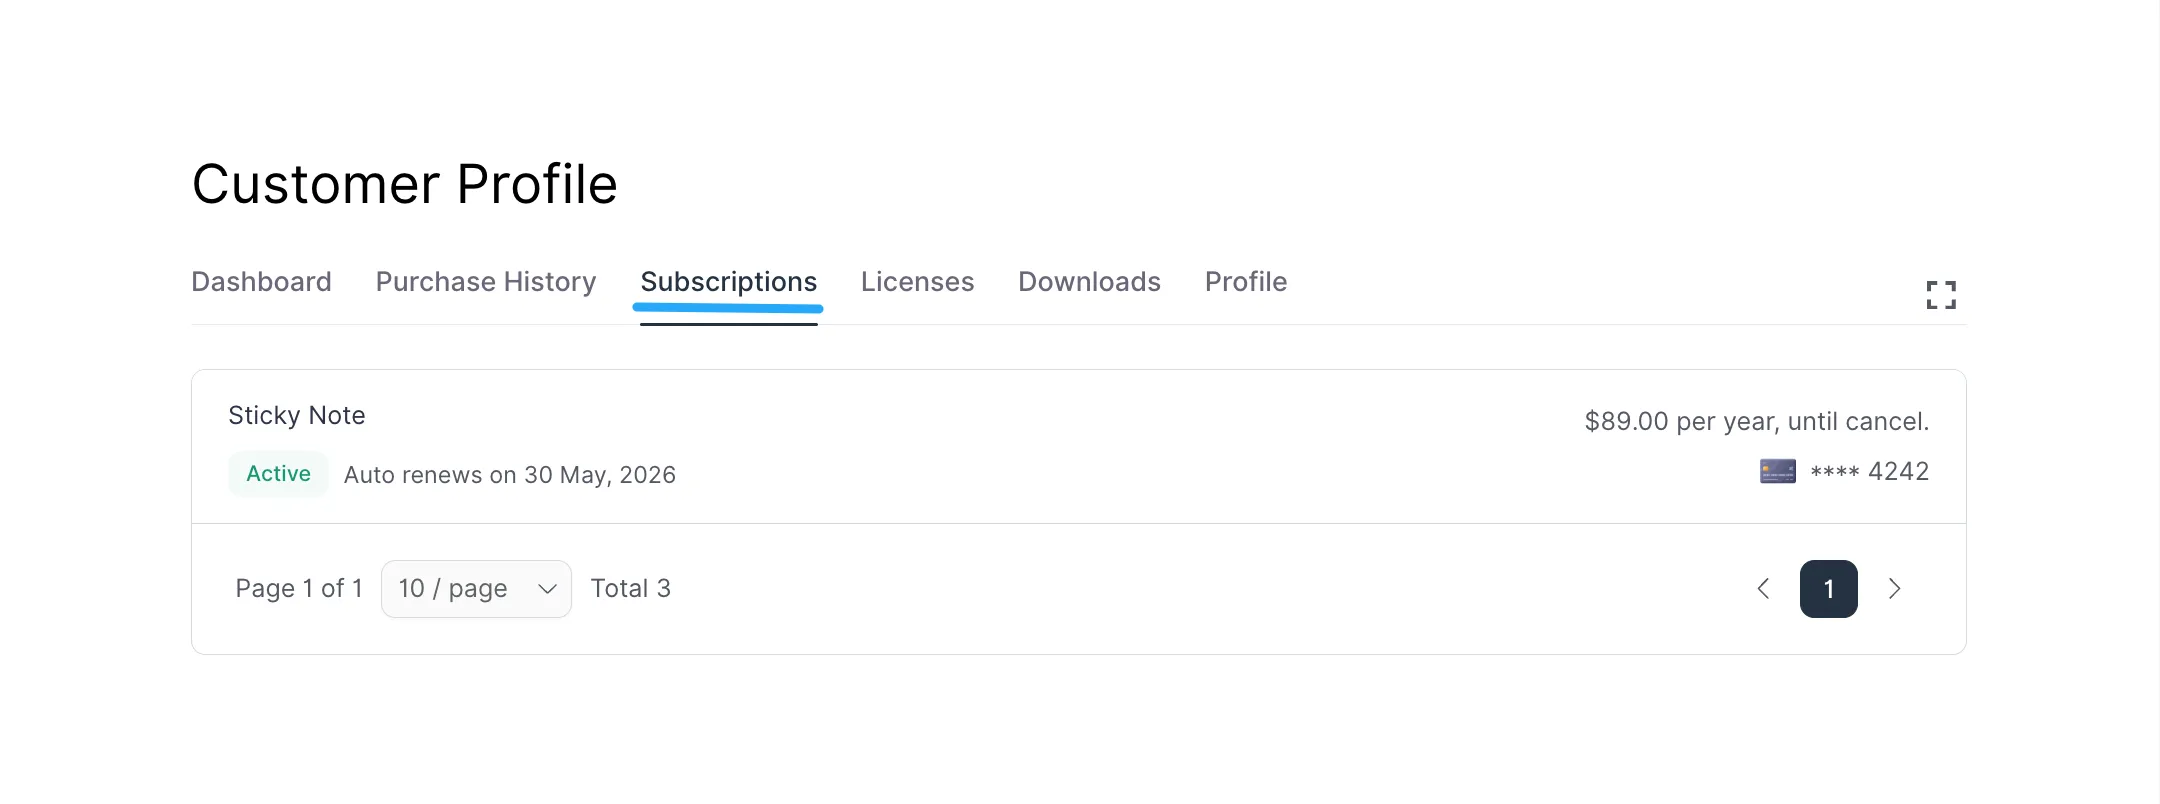
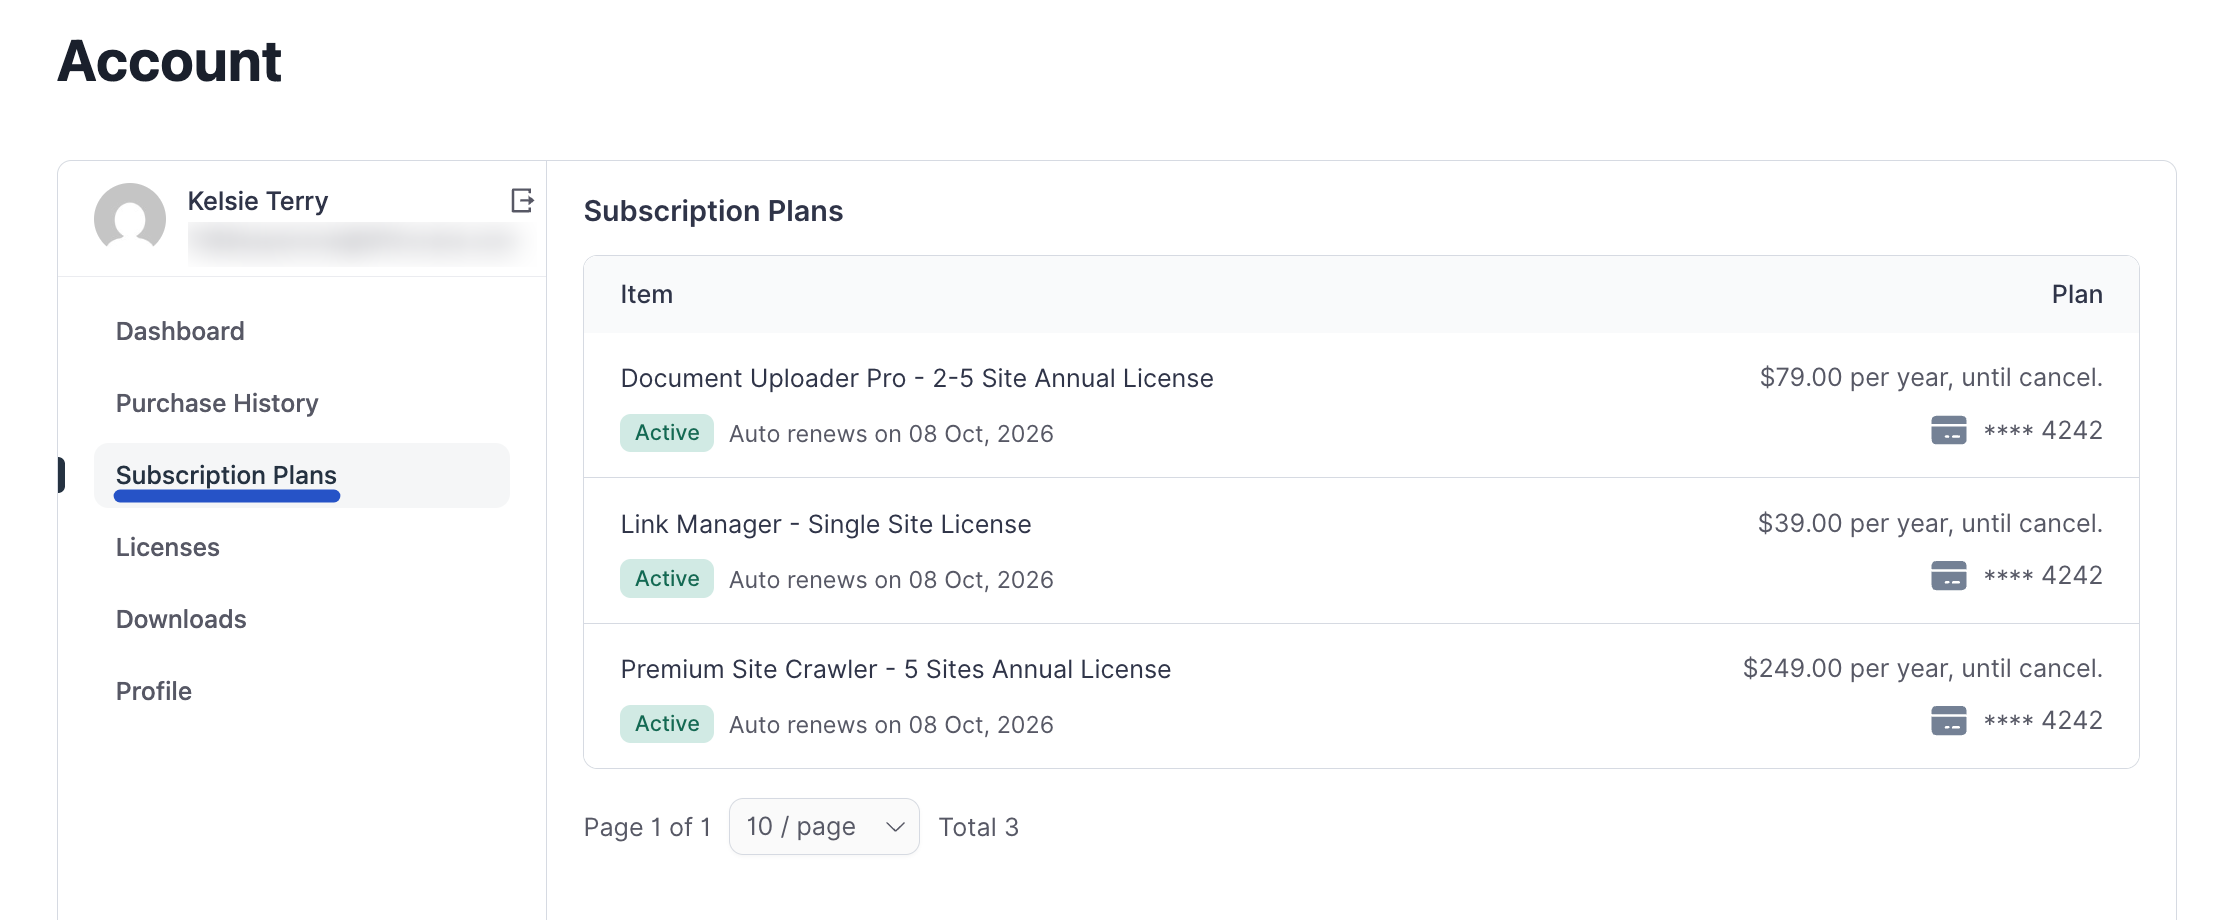
Subscription doc updated

diff --git a/guide/customer-dashboard/subscriptions.md b/guide/customer-dashboard/subscriptions.md
@@ -1,52 +1,45 @@
 # Subscriptions
 
-The **Subscriptions** section allows you to view and manage all your recurring product subscriptions. This is where you can see the status of your active and canceled plans, renewal dates, and payment methods.
+The **Subscription Plans** tab in your account dashboard is your central hub for viewing and managing all of your active and past recurring subscriptions. This is where you can track renewal dates, update your payment information, and access the complete history of your subscription payments.
 
-## Viewing All Subscriptions
+### Viewing All Your Subscriptions
 
-The main subscriptions page displays a list of all your subscriptions, including:
+The main Subscription Plans page displays a clear, organized list of all your subscriptions.
 
-* **Product Name**: The name of the subscribed product (e.g., "Sticky Note").
-* **Payment Method**: Often masked for security (e.g., "**** 4242").
-* **Status**: The current status of the subscription.
-* **Renewal Date**: When the subscription is set to auto-renew (e.g., "Auto renews on May 23, 2026").
-* **Billing Cycle**: The recurring cost and frequency (e.g., "$89.00 per year, until cancel.").
+For each subscription, you can quickly see:
 
-You can navigate through pages if you have multiple subscriptions.
+* **Item:** The name of the product and its specific plan.
+* **Status:** The current status of the subscription (e.g., Active) and its next renewal date.
+* **Plan:** The recurring cost and billing frequency (e.g., "$79.00 per year, until cancel.").
+* **Payment Method:** The saved payment method used for automatic renewals (e.g., the last four digits of a credit card).
 
 ![Screenshot of Subscription](/images/customer-dashboard/subscriptions/subscriptions-1.webp)
 
 
-## Managing Individual Subscription Details
+### Managing an Individual Subscription
 
-Clicking on a specific subscription will take you to its detailed management page. Here you can find:
+To see the complete details for a specific plan, simply click on it in the list. This will take you to its detailed overview page.
 
-### Subscription Details
-* **Product**: The specific product name (e.g., "Sticky Note"").
-* **Active Plan**: The plan name (e.g., "50 Sites Yearly License").
-* **Subscription**: The recurring billing amount and frequency.
-* **Status**: The current status (e.g., "active") and the auto-renewal date (e.g., "Auto renews on May 23, 2026").
-* **Payment method**: The masked payment method used for this subscription.
+This screen gives you a comprehensive look at every aspect of your subscription and provides several key actions.
 
-### Transaction Details 
+#### Subscription Plan Details
 
-A table showing individual transactions related to this order, including:
+This section provides a summary of the core details of your subscription.
 
-* **ID**: Transaction ID.
-* **Amount**: The amount of the transaction.
-* **Status**: The status of the transaction.
-* **Paid By**: The payment method used, often masked for security.
+* **Product and Plan Name:** The name of the product and the specific plan you are subscribed to.
+* **Billing Terms:** The recurring cost and billing frequency.
+* **Next Charge:** The date your next automatic renewal payment is scheduled.
+* **Payment Method:** The current payment method on file for renewals.
 
-### License (if applicable)
-If your subscription is tied to a software license, this section will provide details:
-* **License Key**: The unique license key (e.g., `SNW-............ 1bc1`).
-* **License utilized on**: Shows how many sites or installations are currently using this license out of the total limit (e.g., "0 out of 70 Limit").
+#### Key Actions
 
-### Actions
-* **Upgrade**: Option to upgrade your current subscription plan.
-* **Cancel Auto-Renew**: Option to stop automatic renewals for your subscription.
-* **Update**: (Context-dependent, might allow updating payment method or other details).
-* **Manage License**: Direct link to manage the associated license.
-* **View List**: Returns you to the main Subscriptions list.
+Below the details, you will find several important links:
+
+* **Update Payment Method:** Click this to securely update the credit card or PayPal account used for your automatic renewals. A pop-up will appear where you can enter your new payment details.
+* **View Order:** Click this to see the original order associated with this subscription in your **Purchase History**. This is useful for finding your initial receipt or order details.
+
+#### Related Transactions
+
+This section provides a complete financial history of your subscription. It lists every single transaction, from the initial purchase to every successful renewal payment. You can see the date, amount, status, and payment method for each transaction, and you can download a **Receipt** for any of them.
 
 ![Screenshot of Subscription](/images/customer-dashboard/subscriptions/subscriptions-2.webp)
